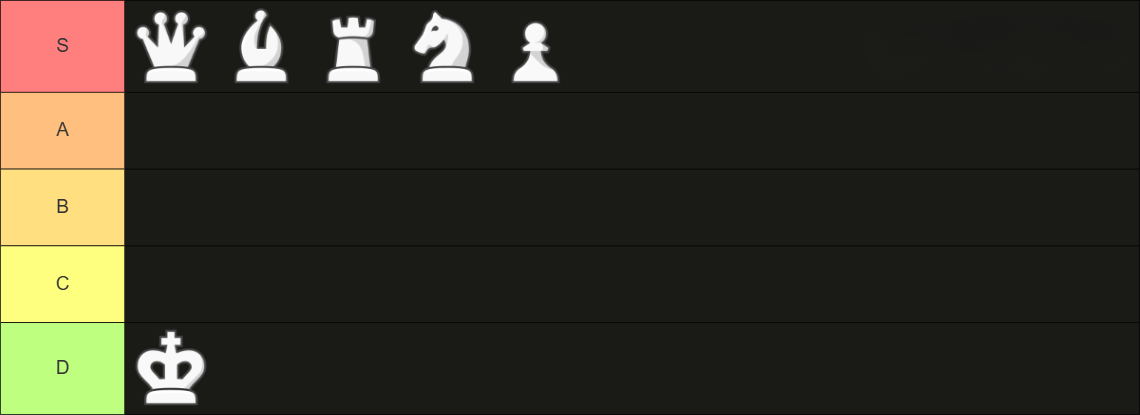
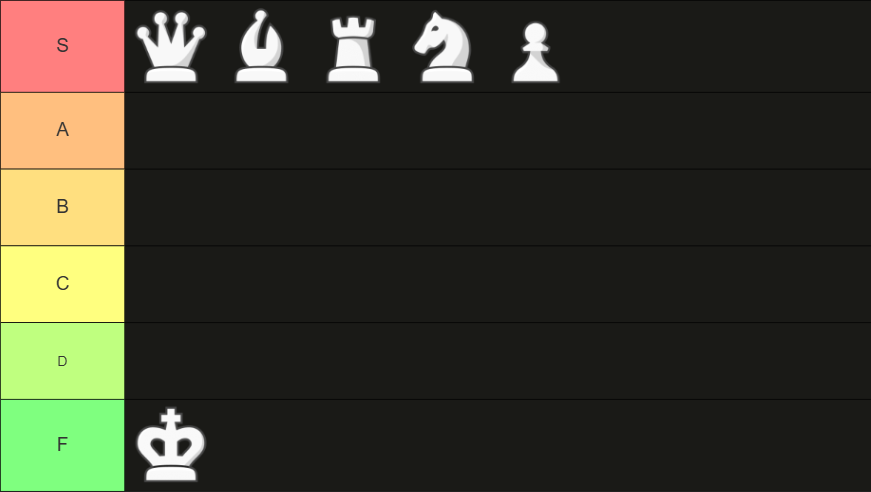
replace img and fix sentence

Changed region(s): [[0.0, 0.0, 0.558, 1.0], [0.589, 0.0289, 0.651, 0.1735], [0.0, 0.0, 0.031, 0.0289]]

diff --git a/me/index.html b/me/index.html
@@ -57,7 +57,7 @@
         </div>
         <div class="content-about">
           <p class="xp">
-            Hi! My name is Linh, I am an undergraduate student, studying at SFU,
+            Hi! My name is Linh, I am an undergraduate student at SFU,
             Bachelor of Science, major in Actuarial Science.
           </p>
           <br />
